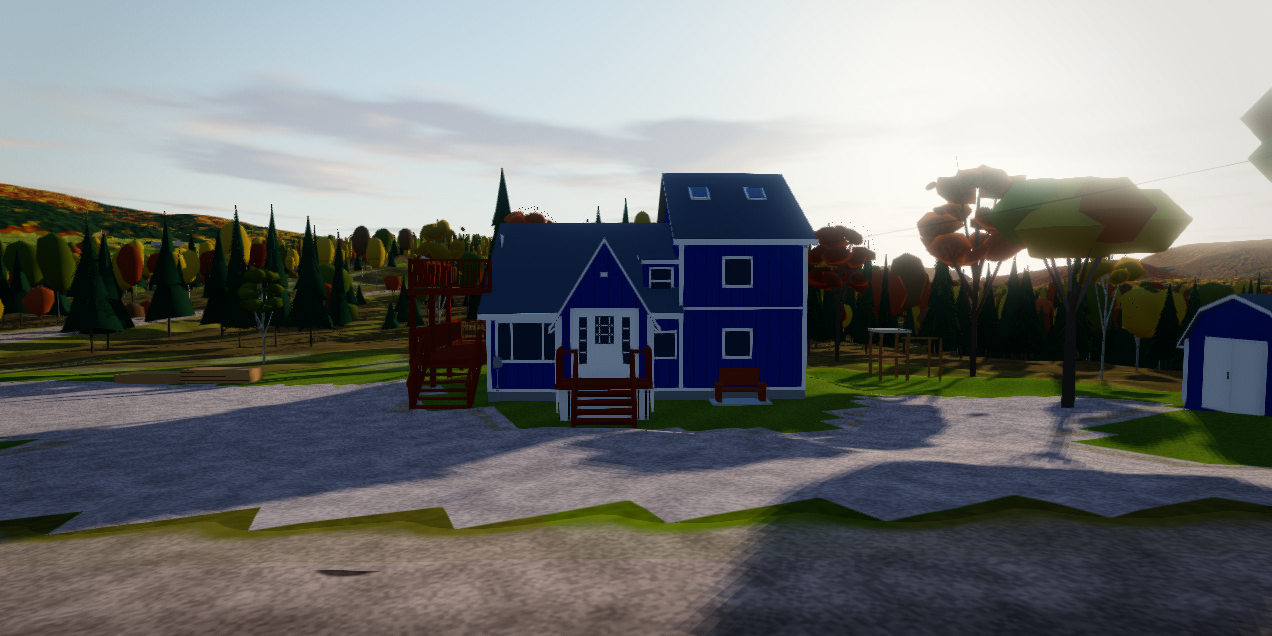
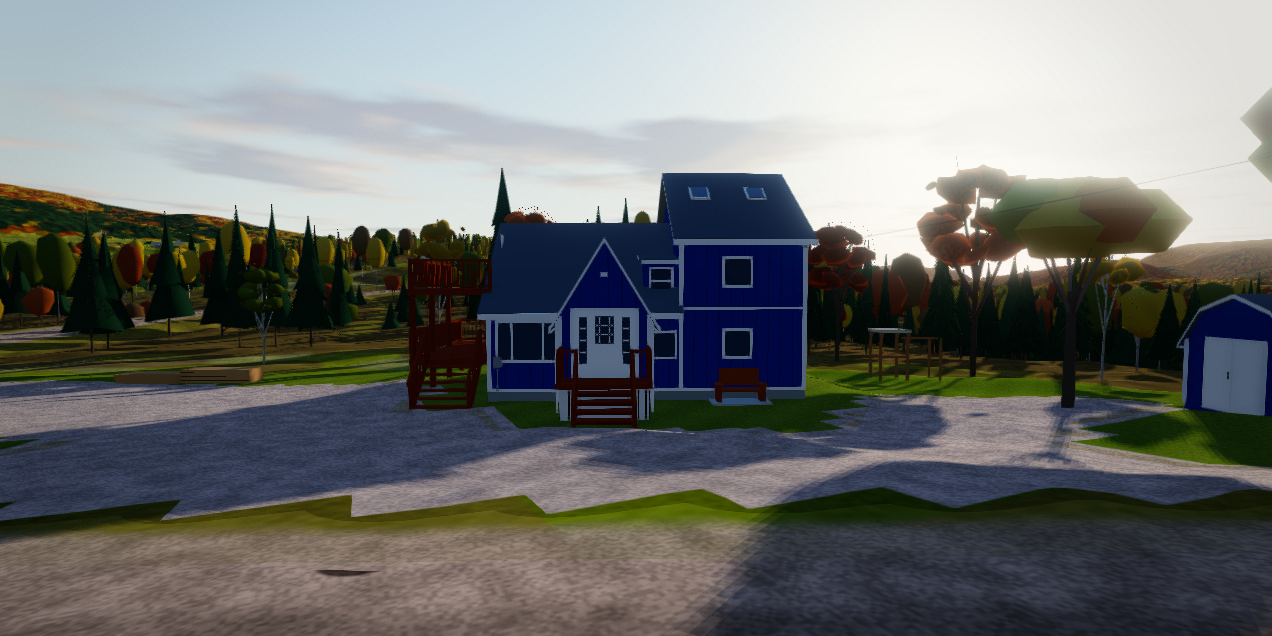
Address Sol Round 2 findings: L5-L8 hull/surfaceAt protection, hide below L7, mailbox sweep
- Set BlackstoneSite.maxTexel = 1, register blackstoneSite.clear via
  terrain.addTreeClear, and gate clearCanopy + surface by exact distance
  to Blackstone Road and Smithville Road centrelines so L5-L8 production
  terrain mesh height (ground + canopy hull) and 4-texel bilinear
  surfaceAt() road readings stay bit-for-bit unchanged across both roads.
- Hide BlackstoneHouse when drawn terrain drops below L7 instead of
  keeping stale L7 grounding at coarse LODs.
- Extend tools/blackstone-check.mjs to check production hull height,
  4-texel bilinear road surfaceAt() on L5-L8, L6 hide, and Props.hitCar
  mailbox sweep envelopes for car, pickup truck and SXS in both directions.
- Refresh assets/blackstone-house/after-*.png.

diff --git a/web/src/blackstone-site.ts b/web/src/blackstone-site.ts
@@ -57,6 +57,33 @@ const GRAVEL = 8, GRASS = 12;   // road-field kinds: 8 is weathered yard gravel/
 const EDGE = 1.6;
 const smooth = (a: number, b: number, x: number) => { const t = Math.max(0, Math.min(1, (x - a) / (b - a))); return t * t * (3 - 2 * t); };
 
+/** Mapped Blackstone Road and Smithville Road centrelines in house (u, v) metres (halfWidth = 2.6 m each). */
+const BLACKSTONE_CL: readonly P[] = [
+  [-39.89, -25.28], [43.79, -18.08], [47.7, -17.94], [51.54, -18.12], [55.2, -18.81], [58.68, -20.15],
+];
+const SMITHVILLE_CL: readonly P[] = [[56.19, -16.93], [60.26, 26.87]];
+
+function polylineDist(pts: readonly P[], u: number, v: number): number {
+  let best = Infinity;
+  for (let i = 0; i < pts.length - 1; i++) {
+    const [ax, ay] = pts[i], [bx, by] = pts[i + 1];
+    const dx = bx - ax, dy = by - ay, l2 = dx * dx + dy * dy;
+    const t = l2 > 0 ? Math.max(0, Math.min(1, ((u - ax) * dx + (v - ay) * dy) / l2)) : 0;
+    const d = Math.hypot(u - (ax + dx * t), v - (ay + dy * t));
+    if (d < best) best = d;
+  }
+  return best;
+}
+
+/** Minimum distance in metres from either public road centreline (Blackstone Road or Smithville Road). */
+const roadCenterDist = (u: number, v: number): number => Math.min(polylineDist(BLACKSTONE_CL, u, v), polylineDist(SMITHVILLE_CL, u, v));
+
+/**
+ * Margin from road centreline that protects every texel contributing to a 4-texel bilinear surfaceAt() query on the
+ * 2.6 m carriageway (2.6 + mpp * sqrt(2) + quantization cushion): 4.5 m at L8 (1 m/texel), 6.0 m at L7 (2 m/texel).
+ */
+const roadPaintMargin = (level?: number): number => (level !== undefined && level <= 7 ? 6.0 : 4.5);
+
 /** Surveyed mailbox near this house (before relocation to the west driveway entrance). */
 const MAILBOX_SEARCH_M = 35;
 /** Real roadside mailbox spot at the west side of the west driveway mouth: dark green plastic pedestal, facing Blackstone Road. */
@@ -71,8 +98,8 @@ export class BlackstoneSite implements Site {
   readonly yaw: number;
   /** The level of the pad, in true metres above the sea. */
   readonly level: number;
-  /** Paint and grade only on L7 and L8 (texel <= 2 m) so coarse L5/L6 tiles keep Blackstone Road untouched. */
-  readonly maxTexel = 2;
+  /** Paint and grade only on L8 (1 m/texel, where single trees replace the canopy hull) so L5-L7 keep roads and canopy untouched. */
+  readonly maxTexel = 1;
   private ox: number; private oz: number; private sin: number; private cos: number;
   private bx: number; private by: number; private axisDeg: number;
 
@@ -176,9 +203,18 @@ export class BlackstoneSite implements Site {
     return this.level + (surveyed - this.level) * (d >= 0 ? 0 : smooth(0, PAD_MARGIN, -d));
   }
 
-  surface(x: number, z: number): { dist: number; half: number; kind: number } | null {
+  clearCanopy(x: number, z: number, level?: number): boolean {
+    const { u, v } = this.local(x, z);
+    if (u < -24.5 || u > 56.0 || v < -23.0 || v > 13.5) return false;
+    // Stay clear of the 6 m canopy-averaging window around Blackstone Road and Smithville Road on L7.
+    if (roadCenterDist(u, v) < (level !== undefined && level <= 7 ? 15.0 : 4.5)) return false;
+    return depth(LAWN, u, v) > -0.5 || depth(DRIVE_FRONT, u, v) > -0.5 || depth(DRIVE_WEST, u, v) > -0.5 || depth(DRIVE_EAST, u, v) > -0.5;
+  }
+
+  surface(x: number, z: number, _ground?: number, level?: number): { dist: number; half: number; kind: number } | null {
     const { u, v } = this.local(x, z);
     if (u < -24.5 || u > 56.0 || v < -23.0 || v > 13.5) return null;
+    if (roadCenterDist(u, v) < roadPaintMargin(level)) return null;
     // Gravel driveways win over lawn and keep their own edge depth so the shader feathers their border smoothly.
     const dDrive = Math.max(depth(DRIVE_FRONT, u, v), depth(DRIVE_WEST, u, v), depth(DRIVE_EAST, u, v));
     if (dDrive > -0.6) return { dist: Math.max(6.5, 10 - dDrive), half: 10, kind: GRAVEL };

diff --git a/web/src/main.ts b/web/src/main.ts
@@ -530,9 +530,9 @@ const placeRows = {
   prince: placeRow(princeSite, site => new PrinceHouse(site, terrain, lift, LOW)),
   blackstone: placeRow(blackstoneSite, site => new BlackstoneHouse(site, terrain, lift, LOW)),
 };
-// Each site clears its surveyed land.
+// Each site clears its surveyed land (Blackstone uses tree-only clear boxes plus LOD-gated clearCanopy so coarse tiles stay untouched).
 const placeSites = sitesOf(placeRows);
-for (const site of Object.values(placeSites)) if (site) clear.push(...site.clear);
+for (const site of Object.values(placeSites)) if (site && site !== blackstoneSite) clear.push(...site.clear);
 const postOfficeBoxes = postOfficeChunk ? postOfficeClear(manifest.village) : [];
 if (postOfficeBoxes.length) clear.push(...postOfficeBoxes);
 if (quarrySite) clear.push(...quarrySite.clear);
@@ -543,6 +543,7 @@ const airportSite = airportModule ? new airportModule.AirportSite(manifest.villa
 // read later, in the background (terrain.ts lazyRange). Desktop: sun shadows, unless ?shadows=0 or a night (it has no sun).
 const terrain = new Terrain(manifest, base, shared, EXAG, SEA_LEVEL, clear, { ground: groundRead, night: nightShading, cartRoads: ERA.cartRoads,
   ...(LOW ? { split: AREA.quarry ? 1 : 1.15, low: true, lazyRange: 600 } : {}), shadows: !LOW && params.get('shadows') !== '0' && !nightLook });
+if (blackstoneSite) for (const box of blackstoneSite.clear) terrain.addTreeClear(box as [number, number, number, number]);
 // Complete the approved CPU class mask before any terrain canopy or individual tree is built.
 // Modern land only: the 1884 era keeps today's cover handling, like other modern features.
 if (ERA.modern) await terrain.readGroundCover().catch(() => areaScreen('The land could not load. Retry this area.', true));

diff --git a/web/src/blackstone-house.ts b/web/src/blackstone-house.ts
@@ -63,7 +63,7 @@ export class BlackstoneHouse implements HandBuiltPlace {
   readonly group = new THREE.Group();
   private local = new THREE.Group();   // house axes: x is u, z is v
   private solids: Solid[] = [];
-  private built = false; private fine = -1; private near = false;
+  private built = false; private fine = -1; private near = false; private drawnOk = false;
   private material = new THREE.MeshLambertMaterial({ vertexColors: true, side: THREE.DoubleSide });
   private probes: { x: number; z: number }[];
   triangles = 0;
@@ -101,13 +101,16 @@ export class BlackstoneHouse implements HandBuiltPlace {
     this.near = far < 900;
     if (this.near || (this.built && far < 1600)) {
       const fine = this.ready();
+      this.drawnOk = fine !== null;
       if (fine !== null && (!this.built || fine !== this.fine)) {
         this.build();
         this.built = true;
         this.fine = fine;
       }
+    } else {
+      this.drawnOk = false;
     }
-    this.group.visible = this.built && far < 1600;
+    this.group.visible = this.built && this.drawnOk && far < 1600;
   }
 
   /** House, porches/decks, sheds, barn, hoop shelters, lumber pile, parcel chest and west maple trunks stop the car. */
